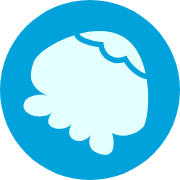
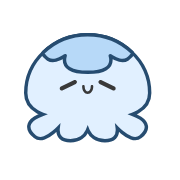
feat: 블로그 이름을 amaranth.log로 바꾸고 해파리 로고·파비콘 적용

diff --git a/src/layouts/RootLayout/Header/Logo.tsx b/src/layouts/RootLayout/Header/Logo.tsx
@@ -2,14 +2,35 @@ import Link from "next/link"
 import { CONFIG } from "site.config"
 import styled from "@emotion/styled"
 
+// Jellyfish mark plus the "amaranth.log" wordmark, both from /public.
 const Logo = () => {
   return (
     <StyledWrapper href="/" aria-label={CONFIG.blog.title}>
-      {CONFIG.blog.title}
+      <img className="icon" src="/logo_icon.svg" alt="" width={23} height={20} />
+      <img className="text" src="/logo_text.svg" alt={CONFIG.blog.title} width={70} height={29} />
     </StyledWrapper>
   )
 }
 
 export default Logo
 
-const StyledWrapper = styled(Link)``
+const StyledWrapper = styled(Link)`
+  display: flex;
+  align-items: center;
+  gap: 0.375rem;
+
+  .icon {
+    width: auto;
+    height: 1.75rem;
+  }
+  .text {
+    width: auto;
+    height: 2rem;
+  }
+  :hover .icon {
+    transform: rotate(-8deg);
+  }
+  .icon {
+    transition: transform 0.2s ease;
+  }
+`

diff --git a/src/routes/Feed/FeedPage.tsx b/src/routes/Feed/FeedPage.tsx
@@ -10,7 +10,7 @@ const websiteJsonLd = {
   "@context": "https://schema.org",
   "@type": "WebSite",
   name: CONFIG.blog.title,
-  alternateName: [`${CONFIG.profile.name} 블로그`, CONFIG.profile.name],
+  alternateName: ["아마란스 로그", `${CONFIG.profile.name} 블로그`, new URL(CONFIG.link).host],
   url: `${CONFIG.link}/`,
 }
 

diff --git a/site.config.js b/site.config.js
@@ -25,7 +25,7 @@ const CONFIG = {
     link:"https://vvony.vercel.app"
   }],
   blog: {
-    title: "세록세록",
+    title: "amaranth.log",
     description: "개발 기록",
     image: "https://amaran-th.vercel.app/jellyfish.png",
     scheme: "light", // 'light' | 'dark' | 'system'
